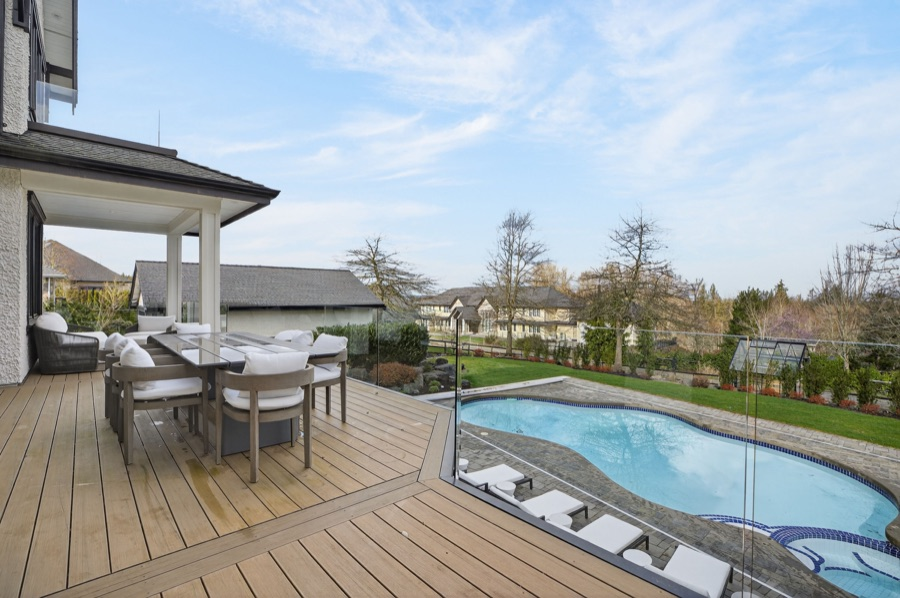
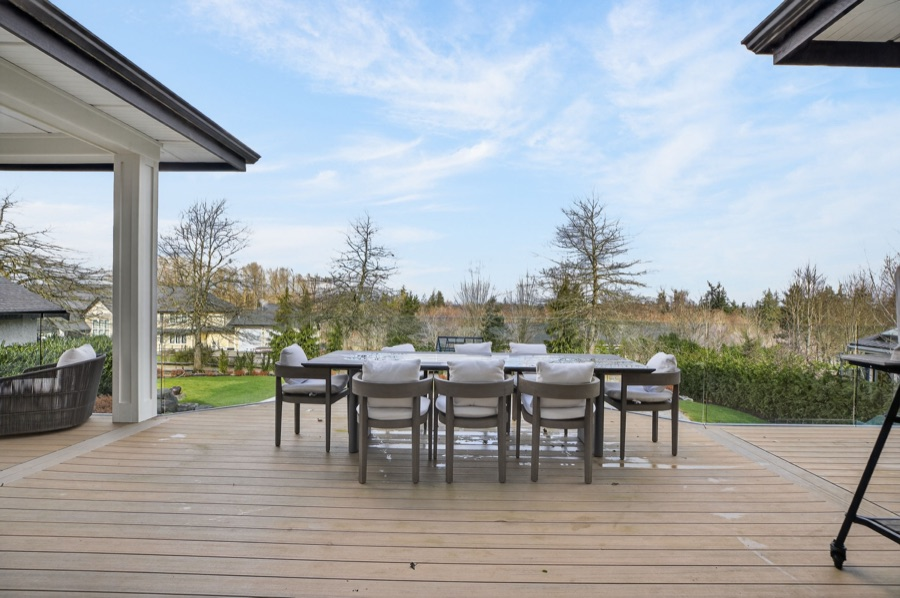
Booklet flip-through, pool photo swap, hero copy edit

diff --git a/index.html b/index.html
@@ -57,7 +57,7 @@ footer{padding:26px 0 42px;text-align:center;color:var(--muted);font-size:11.5px
 <div class="wrap">
   <div class="hero">
     <h2 class="didot">Here is exactly how I get homes sold.</h2>
-    <p>No mystery, no shortcuts. Every listing gets the full treatment below, included with my service. This is what your home's second launch should look like.</p>
+    <p>No mystery, no shortcuts. Every listing gets the full treatment below, included with my service.</p>
   </div>
 
   <div class="sec">
@@ -66,8 +66,8 @@ footer{padding:26px 0 42px;text-align:center;color:var(--muted);font-size:11.5px
     <div class="d">Real photography from my recent listings. First impressions happen online, in about three seconds.</div>
     <div class="pgrid">
       <img class="wide" src="g1.jpg" alt="Estate home exterior">
-      <img src="g2.jpg" alt="Gated driveway">
-      <img src="g3.jpg" alt="Pool and patio">
+      <img src="g2.jpg" alt="Backyard pool and deck">
+      <img src="g3.jpg" alt="Covered patio">
       <img src="g4.jpg" alt="Great room">
       <img src="g5.jpg" alt="Designer kitchen">
     </div>
@@ -90,10 +90,13 @@ footer{padding:26px 0 42px;text-align:center;color:var(--muted);font-size:11.5px
   <div class="sec">
     <div class="k">Beautiful Print Media</div>
     <h2 class="didot">Something worth taking home.</h2>
-    <div class="mediacard print">
-      <img src="featuresheet.jpg" alt="Printed feature sheet">
-      <p>Custom-designed feature booklets and sheets in your home for every showing. Buyers walk out with your home in their hands, and it stays memorable long after the open house.</p>
+    <div class="d">A custom feature booklet, designed and printed for your home. This is a real one, flipping through.</div>
+    <div class="mediacard" style="max-width:440px;margin-left:auto;margin-right:auto;margin-top:18px">
+      <div id="book" style="position:relative;width:100%;aspect-ratio:654/834;background:#fff">
+        <img id="bookimg" src="bk1.jpg" style="width:100%;height:100%;object-fit:contain;display:block;transition:opacity .45s">
+      </div>
     </div>
+    <p style="font-size:13.5px;color:#766f64;margin-top:12px">Buyers walk out of every showing with your home in their hands, and it stays memorable long after the open house.</p>
   </div>
 
   <div class="sec">
@@ -137,6 +140,20 @@ footer{padding:26px 0 42px;text-align:center;color:var(--muted);font-size:11.5px
   fetch("https://api.web3forms.com/submit",{method:"POST",headers:{"Content-Type":"application/json"},
     body:JSON.stringify({access_key:KEY,subject:"QR scan: expired letter marketing page",
     from_name:"QR Tracker",message:"Someone scanned the expired-letter QR code and viewed the marketing page. "+new Date().toString()})}).catch(function(){});
+})();
+</script>
+<script>
+(function(){
+  var n = 12, i = 1, img = document.getElementById("bookimg");
+  for (var k = 2; k <= n; k++) { (new Image()).src = "bk" + k + ".jpg"; }
+  setInterval(function(){
+    img.style.opacity = 0;
+    setTimeout(function(){
+      i = i % n + 1;
+      img.src = "bk" + i + ".jpg";
+      img.style.opacity = 1;
+    }, 450);
+  }, 2600);
 })();
 </script>
 </body></html>
